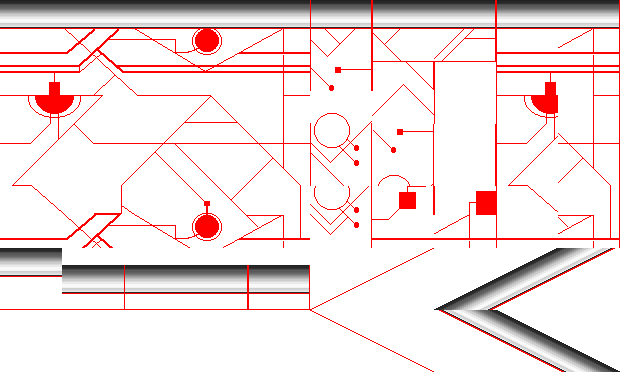
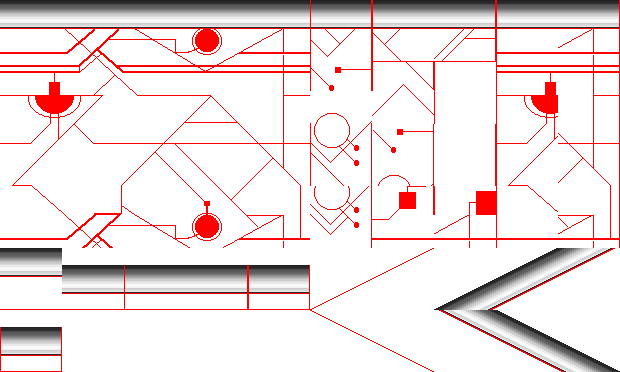
feat: add initial dummy implementation of moving rectangle tile

Changed region(s): [[0.0, 0.8575, 0.1226, 1.0]]

diff --git a/core/src/com/sideprojects/megamanxphantomblade/physics/tiles/MovingRectangleTile.java b/core/src/com/sideprojects/megamanxphantomblade/physics/tiles/MovingRectangleTile.java
@@ -1,0 +1,62 @@
+package com.sideprojects.megamanxphantomblade.physics.tiles;
+
+import com.badlogic.gdx.math.Vector2;
+import com.sideprojects.megamanxphantomblade.MovingObject;
+import com.sideprojects.megamanxphantomblade.physics.TileBase;
+import com.sideprojects.megamanxphantomblade.physics.collision.Collision;
+import com.sideprojects.megamanxphantomblade.physics.collision.CollisionDetectionRay;
+
+/**
+ * Created by buivuhoang on 30/01/18.
+ */
+public class MovingRectangleTile extends TileBase {
+    private RectangleTile tile;
+
+    public MovingRectangleTile(float x, float y, float width, float height, boolean slippery) {
+        tile = new RectangleTile(x, y, width, height, slippery);
+    }
+
+    public MovingRectangleTile(float x, float y, float width, float height) {
+        this(x, y, width, height, false);
+    }
+
+    @Override
+    public float x() {
+        return tile.x();
+    }
+
+    @Override
+    public float y() {
+        return tile.y();
+    }
+
+    @Override
+    public float getHeight() {
+        return tile.getHeight();
+    }
+
+    @Override
+    public float getWidth() {
+        return tile.getWidth();
+    }
+
+    @Override
+    public float[] getVertices() {
+        return tile.getVertices();
+    }
+
+    @Override
+    public Vector2 getPostCollisionPos(Collision collision) {
+        return tile.getPostCollisionPos(collision);
+    }
+
+    @Override
+    public float getYPositionIfStandingOnTile(float x) {
+        return tile.getYPositionIfStandingOnTile(x);
+    }
+
+    @Override
+    public Collision getCollisionWithTile(MovingObject object, CollisionDetectionRay ray, TileBase tileUp, TileBase tileDown, TileBase tileLeft, TileBase tileRight, TileBase tileTopLeft, TileBase tileTopRight, TileBase tileBottomLeft, TileBase tileBottomRight, boolean overlapMode) {
+        return tile.getCollisionWithTile(object, ray, tileUp, tileDown, tileLeft, tileRight, tileTopLeft, tileTopRight, tileBottomLeft, tileBottomRight, overlapMode);
+    }
+}

diff --git a/core/src/com/sideprojects/megamanxphantomblade/physics/TileFactory.java b/core/src/com/sideprojects/megamanxphantomblade/physics/TileFactory.java
@@ -1,6 +1,7 @@
 package com.sideprojects.megamanxphantomblade.physics;
 
 import com.badlogic.gdx.maps.MapProperties;
+import com.sideprojects.megamanxphantomblade.physics.tiles.MovingRectangleTile;
 import com.sideprojects.megamanxphantomblade.physics.tiles.RectangleTile;
 import com.sideprojects.megamanxphantomblade.physics.tiles.SquareTriangleTile;
 
@@ -19,6 +20,9 @@ public class TileFactory extends TileFactoryBase {
 
     private static final String Rectangle = "Rectangle";
     private static final String SquareTriangle = "SquareTriangle";
+    private static final String MovingRectangle = "MovingRectangle";
+
+    private static final String DefaultTileType = Rectangle;
 
     private static final String HalfTileSize = "Half";
     private static final String TileSize = "Size";
@@ -26,7 +30,7 @@ public class TileFactory extends TileFactoryBase {
     @Override
     public TileBase getTile(MapProperties cellProperties, int x, int y) {
         String type = cellProperties.get(Type, String.class);
-        type = type == null ? Rectangle : type;
+        type = type == null ? DefaultTileType : type;
         switch (type) {
             case SquareTriangle:
                 String orientation = cellProperties.get(Orientation, String.class);
@@ -49,6 +53,8 @@ public class TileFactory extends TileFactoryBase {
                 } else {
                     return new RectangleTile(x, y, 1, 1);
                 }
+            case MovingRectangle:
+                return new MovingRectangleTile(x, y, 1, 45/62f);
         }
         return null;
     }
